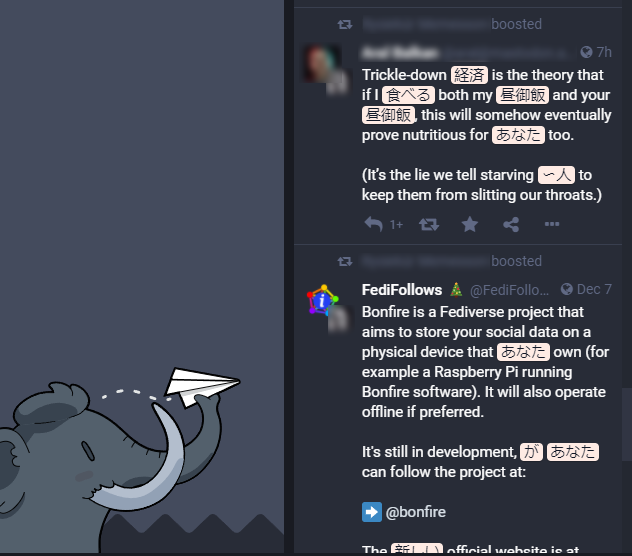
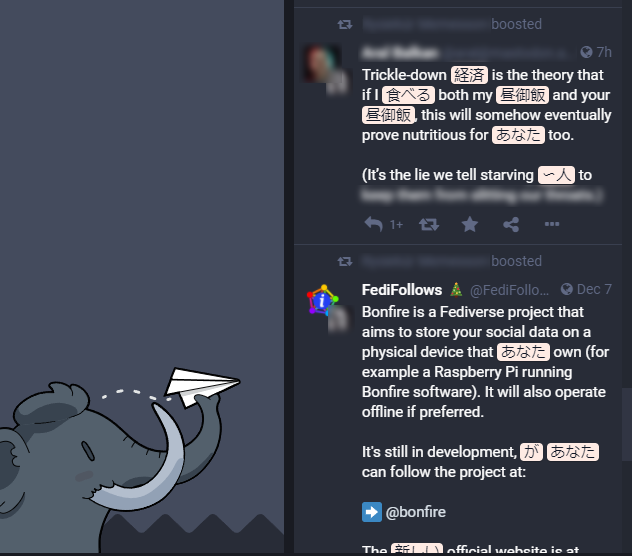
Update screenshots

Changed region(s): [[0.5712, 0.3058, 0.962, 0.3669]]

diff --git a/README.md b/README.md
@@ -17,6 +17,8 @@ Facebook and Mastodon!
 
 ![Screenshot](screen2.png)
 
+![Screenshot](screen3.png)
+
 ## Installation
 
 ### Chrome Web Store
